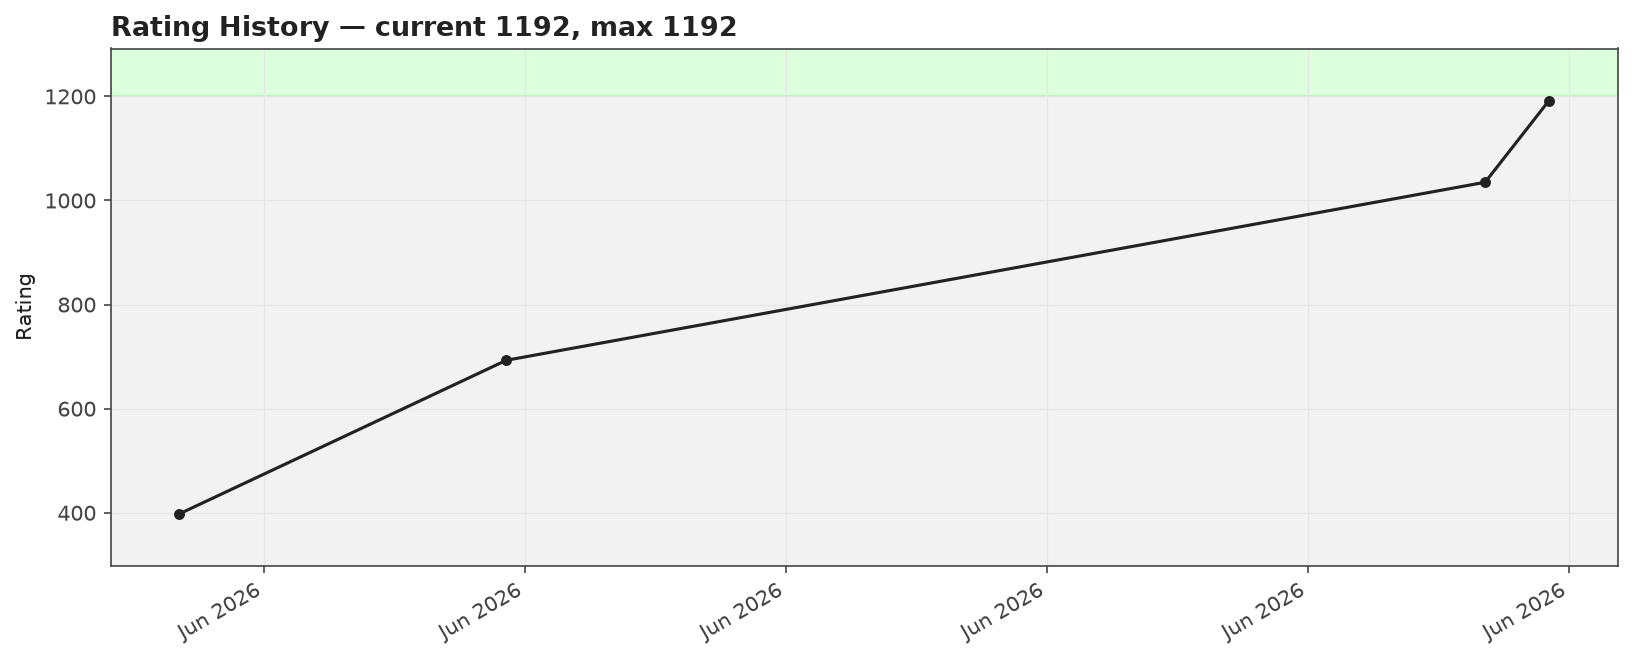
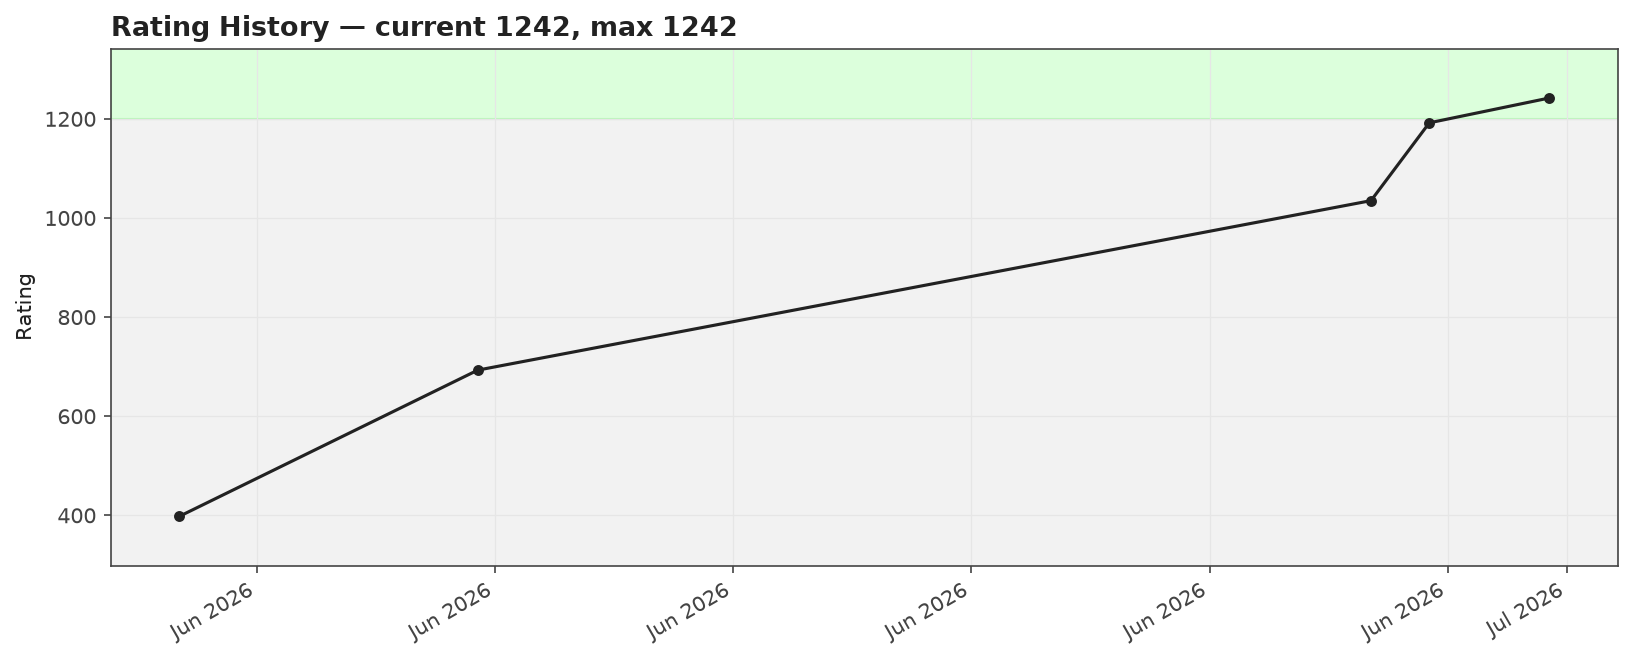
fix: streak calc (count all AC not just unique) + always refresh analytics on sync

diff --git a/auto_sync.py b/auto_sync.py
@@ -1,15 +1,17 @@
 #!/usr/bin/env python3
 """
-auto_sync.py — long-running watcher tied to REAL Codeforces acceptance.
+auto_sync.py — long-running watcher tied to REAL Codeforces acceptance
+AND rating changes.
 
 It does NOT watch your local files for saves. It polls the Codeforces API
-every SYNC_INTERVAL seconds and checks: "is there a problem with verdict OK
-that I haven't committed yet?" Only when that's true does it:
-  1. write the problem folder (pulling your code from solutions/ if present)
-  2. git commit (one commit per newly-accepted problem)
-  3. git push
-
-If nothing new got accepted, it does nothing that cycle — no empty/fake commits.
+every SYNC_INTERVAL seconds and, every cycle:
+  1. checks for newly-accepted problems (writes their folders)
+  2. ALWAYS regenerates README.md + all analytics charts (rating history,
+     activity heatmap, etc.) — this matters even when zero new problems
+     were solved, e.g. after a contest that only changed your rating.
+  3. stages everything, and commits+pushes ONLY IF something actually
+     changed on disk (git commit is a no-op otherwise) — so idle cycles
+     never create empty/fake commits.
 
 Usage:
     export CF_HANDLE=your_handle
@@ -25,7 +27,7 @@ import os
 import json
 import time
 import subprocess
-from datetime import datetime, timezone
+from datetime import datetime
 import core
 
 CF_HANDLE = os.environ.get("CF_HANDLE", "").strip()
@@ -43,56 +45,47 @@ def save_state(done):
     STATE_FILE.write_text(json.dumps(sorted(done)), encoding="utf-8")
 
 
-def git(*args, env_extra=None):
-    env = os.environ.copy()
-    if env_extra:
-        env.update(env_extra)
-    result = subprocess.run(["git", *args], cwd=core.REPO_ROOT, env=env,
+def git(*args):
+    result = subprocess.run(["git", *args], cwd=core.REPO_ROOT,
                              capture_output=True, text=True)
     if result.returncode != 0:
         print(f"  git {' '.join(args)} failed: {result.stderr.strip()}")
     return result
 
 
-def commit_and_push(sub, prob_dir, has_code):
-    key = core.problem_key(sub["problem"])
-    name = sub["problem"].get("name", "?")
-    ts = sub["creationTimeSeconds"]
-    iso_date = datetime.fromtimestamp(ts, tz=timezone.utc).strftime("%Y-%m-%dT%H:%M:%S")
-
-    rel_path = str(prob_dir.relative_to(core.REPO_ROOT))
-    git("add", rel_path, "README.md", ".synced_problems.json")
-    msg = f"Solve {key} - {name}" + (" [with code]" if has_code else "")
-    res = git("commit", "-m", msg, env_extra={"GIT_AUTHOR_DATE": iso_date, "GIT_COMMITTER_DATE": iso_date})
-    if res.returncode != 0:
-        return False
-    push_res = git("push")
-    return push_res.returncode == 0
-
-
 def sync_once(done):
+    """Returns (new_problem_count, committed: bool)."""
     subs = core.get_accepted_submissions(CF_HANDLE)
     new_subs = [s for s in subs if core.problem_key(s["problem"]) not in done]
-    if not new_subs:
-        return 0
-
     local_code = core.load_local_solutions()
-    pushed = 0
+
     for s in new_subs:
-        key = core.problem_key(s["problem"])
-        tag_dir, folder, prob_dir = core.write_problem_folder(s, local_code)
-        core.generate_readme(subs, local_code, CF_HANDLE)  # keep index in sync
-        done.add(key)
-        save_state(done)
-        ok = commit_and_push(s, prob_dir, key in local_code)
-        if ok:
-            pushed += 1
-            print(f"  ✅ pushed {key} - {s['problem'].get('name','?')}")
-        else:
-            print(f"  ⚠️  failed to push {key}, will retry next cycle")
-            done.discard(key)
-            save_state(done)
-    return pushed
+        core.write_problem_folder(s, local_code)
+        done.add(core.problem_key(s["problem"]))
+
+    # Always regenerate — this is what picks up rating changes, streak
+    # updates, and chart refreshes even when no new problem was solved.
+    core.generate_readme(subs, local_code, CF_HANDLE)
+    save_state(done)
+
+    git("add", "problems", "README.md", "assets", str(STATE_FILE.name))
+    diff_check = subprocess.run(["git", "diff", "--cached", "--quiet"], cwd=core.REPO_ROOT)
+    if diff_check.returncode == 0:
+        return len(new_subs), False  # nothing actually changed, no-op
+
+    if new_subs:
+        names = ", ".join(core.problem_key(s["problem"]) for s in new_subs[:5])
+        suffix = f" (+{len(new_subs) - 5} more)" if len(new_subs) > 5 else ""
+        msg = f"Sync: {len(new_subs)} new problem(s) — {names}{suffix}"
+    else:
+        msg = "Sync: refresh analytics (rating/streak update, no new problems)"
+
+    commit_res = git("commit", "-m", msg)
+    if commit_res.returncode != 0:
+        return len(new_subs), False
+
+    push_res = git("push")
+    return len(new_subs), push_res.returncode == 0
 
 
 def main():
@@ -105,22 +98,25 @@ def main():
     print(f"auto_sync.py running for {CF_HANDLE}" + (" (single run mode)." if run_once else f", polling every {SYNC_INTERVAL}s. Ctrl+C to stop."))
     print(f"Already tracked: {len(done)} problems.\n")
 
-    if run_once:
+    def cycle():
         now = datetime.now().strftime("%H:%M:%S")
-        n = sync_once(done)
-        print(f"[{now}] {n} new problem(s) synced." if n else f"[{now}] no new AC submissions.")
+        try:
+            n_new, committed = sync_once(done)
+            if committed and n_new:
+                print(f"[{now}] pushed {n_new} new problem(s) + refreshed analytics.")
+            elif committed:
+                print(f"[{now}] refreshed analytics (rating/streak change detected), pushed.")
+            else:
+                print(f"[{now}] no changes to sync.")
+        except Exception as e:
+            print(f"[{now}] [error] {e}")
+
+    if run_once:
+        cycle()
         return
 
     while True:
-        try:
-            now = datetime.now().strftime("%H:%M:%S")
-            n = sync_once(done)
-            if n:
-                print(f"[{now}] {n} new problem(s) synced.")
-            else:
-                print(f"[{now}] no new AC submissions.")
-        except Exception as e:
-            print(f"[error] {e}")
+        cycle()
         time.sleep(SYNC_INTERVAL)
 
 

diff --git a/core.py b/core.py
@@ -77,6 +77,15 @@ def get_accepted_submissions(handle):
     return sorted(best.values(), key=lambda s: s["creationTimeSeconds"])
 
 
+def get_all_ac_timestamps(handle):
+    """Every accepted submission's timestamp (NOT deduped per problem).
+    Used for streak/activity — resubmitting or re-solving an already-AC'd
+    problem still counts as activity that day, matching how CF's own
+    streak counters work."""
+    subs = cf_get("user.status", {"handle": handle, "from": 1, "count": 100000})
+    return [s["creationTimeSeconds"] for s in subs if s.get("verdict") == "OK"]
+
+
 def get_rating_history(handle):
     """List of contest rating changes, oldest first. Empty list if user has never rated."""
     try:
@@ -299,11 +308,11 @@ def chart_language_breakdown(subs, local_code):
     return _save(fig, "language_breakdown.png")
 
 
-def chart_activity_heatmap(subs, weeks=52):
+def chart_activity_heatmap(timestamps, weeks=52):
     """GitHub-style contribution calendar for the last `weeks` weeks."""
     by_day = defaultdict(int)
-    for s in subs:
-        d = datetime.utcfromtimestamp(s["creationTimeSeconds"]).date()
+    for ts in timestamps:
+        d = datetime.utcfromtimestamp(ts).date()
         by_day[d] += 1
 
     today = datetime.utcnow().date()
@@ -342,17 +351,18 @@ def chart_activity_heatmap(subs, weeks=52):
     return _save(fig, "activity_heatmap.png")
 
 
-def generate_all_charts(subs, local_code, rating_history=None):
+def generate_all_charts(subs, local_code, rating_history=None, all_ac_timestamps=None):
     """Generates every chart, tolerating individual failures so one bad
     chart doesn't block README generation."""
     made = {}
+    heatmap_source = all_ac_timestamps if all_ac_timestamps is not None else [s["creationTimeSeconds"] for s in subs]
     chart_list = [
         ("rating_distribution.png", chart_rating_distribution, (subs,)),
         ("tag_distribution.png", chart_tag_distribution, (subs,)),
         ("cumulative_progress.png", chart_cumulative_progress, (subs,)),
         ("language_breakdown.png", chart_language_breakdown, (subs, local_code)),
         ("problem_type_distribution.png", chart_problem_type_distribution, (subs,)),
-        ("activity_heatmap.png", chart_activity_heatmap, (subs,)),
+        ("activity_heatmap.png", chart_activity_heatmap, (heatmap_source,)),
     ]
     if rating_history:
         chart_list.append(("rating_history.png", chart_rating_history, (rating_history,)))
@@ -366,10 +376,10 @@ def generate_all_charts(subs, local_code, rating_history=None):
     return made
 
 
-def build_streak_calendar(subs, weeks=12):
+def build_streak_calendar(timestamps, weeks=12):
     by_day = defaultdict(int)
-    for s in subs:
-        d = datetime.utcfromtimestamp(s["creationTimeSeconds"]).date()
+    for ts in timestamps:
+        d = datetime.utcfromtimestamp(ts).date()
         by_day[d] += 1
 
     today = datetime.utcnow().date()
@@ -406,9 +416,10 @@ def generate_readme(subs, local_code, handle):
         raw_lang = local_code.get(key, (s.get("programmingLanguage", "Other"),))[0]
         lang_count[normalize_lang(raw_lang)] += 1
 
-    heat, longest, current = build_streak_calendar(subs)
+    all_ac_timestamps = get_all_ac_timestamps(handle)
+    heat, longest, current = build_streak_calendar(all_ac_timestamps)
     rating_history = get_rating_history(handle)
-    chart_status = generate_all_charts(subs, local_code, rating_history)
+    chart_status = generate_all_charts(subs, local_code, rating_history, all_ac_timestamps)
 
     lines = [
         "# CF Vault", "",

diff --git a/README.md b/README.md
@@ -5,7 +5,7 @@ Auto-generated archive of accepted Codeforces submissions for **[om_sharma_](htt
 - **Total solved:** 60
 - **With source attached:** 0 / 60
 - **Longest streak:** 11 days  |  **Current streak:** 0 days
-- **Contest rating:** 1192 (max 1192)
+- **Contest rating:** 1242 (max 1242)
 
 ## 📊 Analytics
 